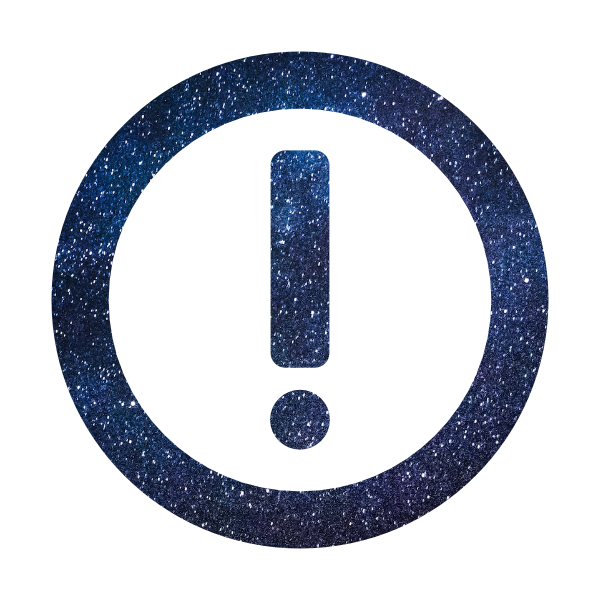
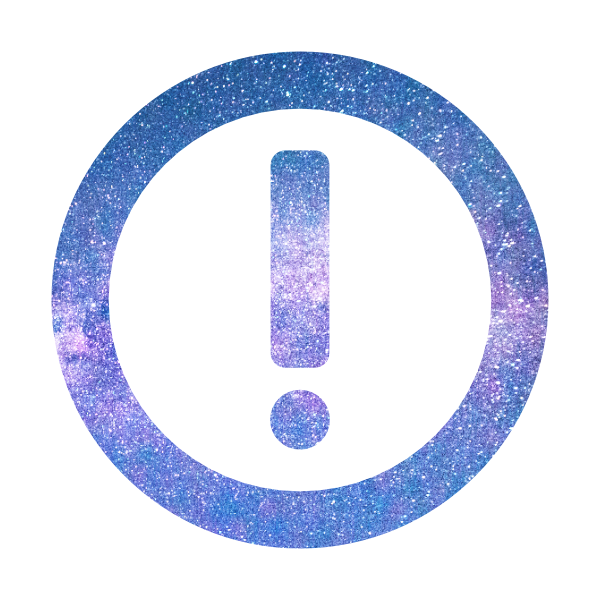
add eventListener for buttons

Changed region(s): [[0.06, 0.06, 0.93, 0.93], [0.45, 0.24, 0.57, 0.75]]

diff --git a/tpScript.js b/tpScript.js
@@ -6,7 +6,9 @@ const hpItem = document.querySelector('#hpTask');//list item
 
 const lpInput = document.querySelector('#lp'); // hp input value
 const lpItem = document.querySelector('#lpTask');//list item
-let task = '';
+let exclaim = document.createElement('img');
+exclaim.setAttribute('src','exclaimPink.png')
+let task = '';//just to check if deleted item is being pulled
 
 
 
@@ -50,8 +52,8 @@ pickButton.addEventListener('click',(e)=>{
 
     const item1 = document.querySelector('#item1');//li item 1
     const item2 = document.querySelector('#item2');// list item 2
-    const exclaim = document.createElement('img');
-    exclaim.setAttribute('src','exclaimPink.png')
+   
+    
 
     exclaim.style.width = '7%';
 
@@ -61,17 +63,85 @@ pickButton.addEventListener('click',(e)=>{
         item1.appendChild(exclaim);
 
     }else{
-        item1.innerHTML = "N/A";
+        item1.innerHTML = "";
     }
 
     if(lpPick != undefined){
         item2.innerHTML = lpPick;
     }else{
-        item2.innerHTML = "N/A"
+        item2.innerHTML = ""
     }
      
 
 })
+
+//Theme Changer
+const bubbleButton = document.querySelector('#bubbles');
+const nightButton = document.querySelector('#night');
+const footer = document.querySelector('footer');
+let bg = document.body;
+let line = document.querySelector('.line');
+
+
+
+
+//click and hover event for each button
+//current theme has faded button
+
+//mouseover then inner click event? 
+
+//if theme not current theme
+let nightColor = 'rgba(102, 113, 171, 0.8)';
+let bubbleColor = 'rgba(255, 167, 212, 0.8)';
+
+
+    
+    nightButton.addEventListener('click',(e)=>{
+        themeChanger("url('nightSky.jpg')",nightColor,'exclaimBlue.png' );//img url, line color, pickbutton color, exclaim attribute
+        footer.style.visibility = 'visible';
+
+       
+    
+    })
+    
+
+     nightButton.addEventListener('mouseenter', (e)=>{
+             nightButton.style.width = '110px';
+             nightButton.addEventListener('mouseout',(e)=>{
+                 nightButton.style.width = '100px';
+             })
+        
+     })
+
+
+
+    bubbleButton.addEventListener('click',(e)=>{
+        themeChanger("url('bubbles.png')",bubbleColor,'exclaimPink.png' );//img url, line color, pickbutton color, exclaim attribute
+        footer.style.visibility = 'hidden';
+    
+    })
+    
+     bubbleButton.addEventListener('mouseenter', (e)=>{
+             bubbleButton.style.width = '110px';
+             bubbleButton.addEventListener('mouseout',(e)=>{
+                 bubbleButton.style.width = '100px';
+             })
+        
+     })
+
+
+
+
+
+
+function themeChanger(bgImg, themeColor, exclaimImg){
+    bg.style.backgroundImage = bgImg; //will make generic
+    line.style.background = themeColor;
+    pickButton.style.backgroundColor = themeColor;
+    exclaim.setAttribute('src',exclaimImg);
+  
+
+}
 
 
 
@@ -95,7 +165,16 @@ pickButton.addEventListener('click',(e)=>{
 
         if(clickedBox != undefined || clickedBox != null){
             clickedBox.addEventListener('click', (e)=>{ //clicked box gets filled then item disappears
-                clickedBox.setAttribute('src','CheckboxFill.png');
+
+                if(bg.style.backgroundImage = "url('nightSky.jpg')"){
+
+                    clickedBox.setAttribute('src', 'CheckboxNight.png');
+
+                }else{
+                    clickedBox.setAttribute('src','CheckboxFill.png');
+
+                }
+                
     
                 // Delayed remove of list item
                  setTimeout(()=>{ 

diff --git a/index.html b/index.html
@@ -83,15 +83,20 @@
     <div class="themeChanger">
         <h3>Pick A Theme</h3>
         <div class="themeButtons">
-            <img src="bubbleSquare.png" id="bubbles" style="width: 100px;">
-            <img src="nightSquare.png" id= "night" style="width: 100px;">
+            
+                <img src="bubbleSquare.png" id="bubbles" style="width: 100px;">
+            
+                <img src="nightSquare.png" id= "night" style="width: 100px;">
+        
+           
         </div>
         
 
     </div>
 
     <footer> <!--Will show for backgrounds from other artists-->
-       <p id="credit"> Photo by <a href="https://unsplash.com/@federize?utm_source=unsplash&utm_medium=referral&utm_content=creditCopyText">Federico Beccari</a> on <a href="https://unsplash.com/wallpapers/nature/night-sky?utm_source=unsplash&utm_medium=referral&utm_content=creditCopyText">Unsplash</a>
+       <p id="credit"> Photo by <a href="https://unsplash.com/es/@felix_mittermeier?utm_source=unsplash&utm_medium=referral&utm_content=creditCopyText">Felix Mittermeier</a> on <a href="https://unsplash.com/wallpapers/nature/night-sky?utm_source=unsplash&utm_medium=referral&utm_content=creditCopyText">Unsplash</a>
+  
         </p>
     </footer>
 

diff --git a/tpStyle.css b/tpStyle.css
@@ -86,11 +86,11 @@ li .list-group-item{
 
 .list-group-item label{
     padding-left: 2px ;
+    color: white;
 }
 
 .pick{
     background-color: rgba(255, 167, 212, 0.8);
-    /* background-color:rgba(167, 254, 255, 0.8); */
     border-radius: 6px;
     padding: 1px 8px 4px 8px;
     font-weight: 700;
@@ -117,6 +117,7 @@ li .list-group-item{
 
 .pickedTasks li{
     list-style: none;
+    color: white;
 }
 
 
@@ -157,11 +158,15 @@ li .list-group-item{
     text-shadow: 5px 5px 12px #02020254;
 }
 
+
+
 #night{
     margin-left:12px;
     
     
 }
+
+
 
 .themeButtons{
     margin-top: 20px;
@@ -182,6 +187,6 @@ footer{
     position: fixed;
    bottom: 0;
    width: 100%;
-   display: none;
+   visibility: hidden;
 
 }
